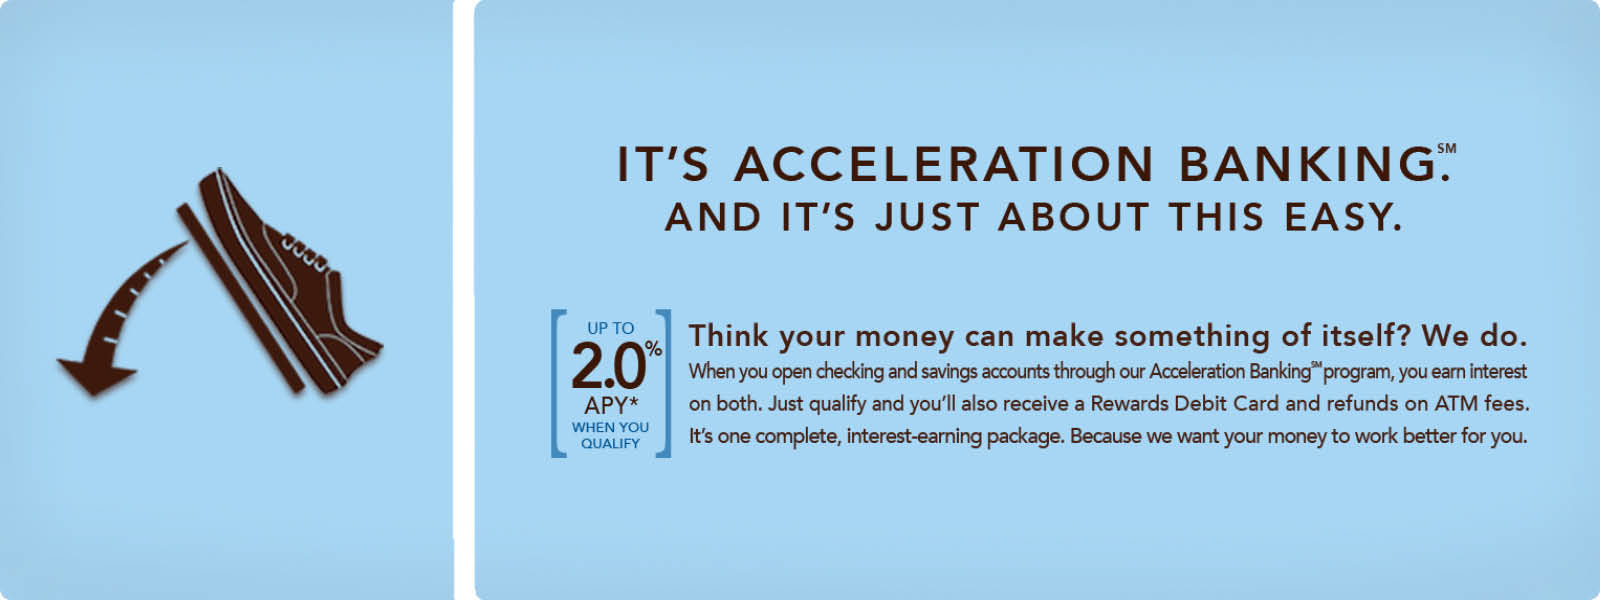
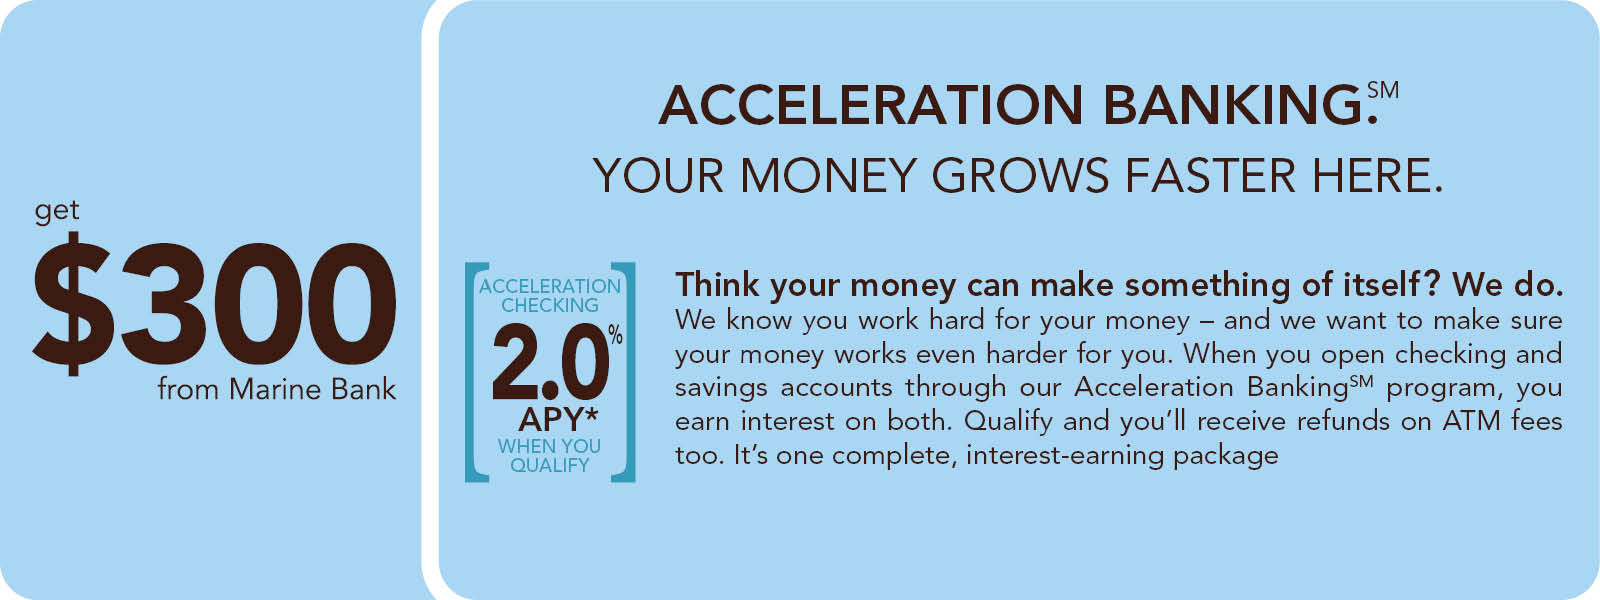
New Acceleration Offer

diff --git a/acceleration.html b/acceleration.html
@@ -71,7 +71,8 @@
               </form>
             </div><!- row -->
             <div class="row spacer">
-            	<p>*Annual Percentage Yield accurate as of 12/1/17. Variable rate accounts and interest rates are subject to change. Fees may reduce earnings. Accounts closed within 6 months of opening date are subject to a $25.00 closing fee. Limit one Acceleration Checking and Acceleration Savings account per primary social security number. Acceleration Checking: Minimum balance to open account $100. Customer must initiate set up of e-statements through online banking, establish a monthly direct deposit and perform 12 debit card purchases each month to qualify and receive tiered rates and ATM surcharge refunds up to $12. Transactions may take one or more business days from the date transaction was made to post and clear the account. Checking account balances of $0.00-$10,000.00 (2.00% APY); $10,000.01 and above (.15% APY). If qualifications are not met, all funds in checking account earn .025% APY. If Acceleration Savings is also opened, interest earned on Acceleration Checking is automatically transferred to Acceleration Savings and then compounds at Acceleration Savings rates. Acceleration Savings: Account can only be opened in conjunction with Acceleration Checking account. Savings account balances of $0.00-$10,000.00 (.35% APY); $10,000.01 and above (.15% APY). If qualifications of Acceleration Checking account are not met during the month, all funds in Savings account earn .025% APY.</p>
+            	<p>*Annual Percentage Yield accurate as of 2/9/18. Variable rate accounts. Interest rates subject to change. Fees may reduce earnings. Accounts closed within 6 months of opening date are subject to a $75.00 closing fee. Limit one Acceleration Checking and Acceleration Savings account per primary social security number. Acceleration Checking: Minimum balance to open account $100. Customer must set up e-statements through online banking, establish a monthly direct deposit and perform 12 debit card purchases each month to “qualify” and receive tiered rates and ATM surcharge refunds up to $12. Transactions may take one or more business days to post and clear the account. Checking account balances of $0.00-$10,000.00 (2.00% APY); $10,000.01 and above (.15% APY). If qualifications are not met, all funds in checking account earn .025% APY. Acceleration Savings account can only be opened in conjunction with Acceleration Checking account. Ask for details. $300.00 bonus offer limited to new Acceleration Checking accounts opened between 2/12/18 and 3/30/18. To receive the bonus Acceleration Checking “qualifications” must be met the first two consecutive months after account opening. Cash bonus will be deposited into the account following the third statement cycle by the 10th of the month. Cash bonus considered income and reportable on IRS Form 1099-INT.
+              </p>
             </div><!-- row -->
           </div>
         </main>

diff --git a/index.html b/index.html
@@ -26,11 +26,14 @@
                             <li data-target="#homepage-feature" data-slide-to="0" class="active"></li>
                             <li data-target="#homepage-feature" data-slide-to="1"></li>
                             <li data-target="#homepage-feature" data-slide-to="2"></li>
-                            <!-- <li data-target="#homepage-feature" data-slide-to="3"></li> -->
+                            <li data-target="#homepage-feature" data-slide-to="3"></li>
                         </ol>
                         <!-- Wrapper for slides -->
                         <div class="carousel-inner">
                           <div class="item active">
+                            <a href="acceleration.html"><img src="img/accel_offer.jpg" alt="Offer for $300"></a>
+                          </div>
+                          <div class="item">
                             <a href="savings.html#moneymarket"><img src="img/MM-CD_Carousel_Marine.jpg" alt="Money Market Special Offer"></a>
                           </div>
                           <div class="item">
